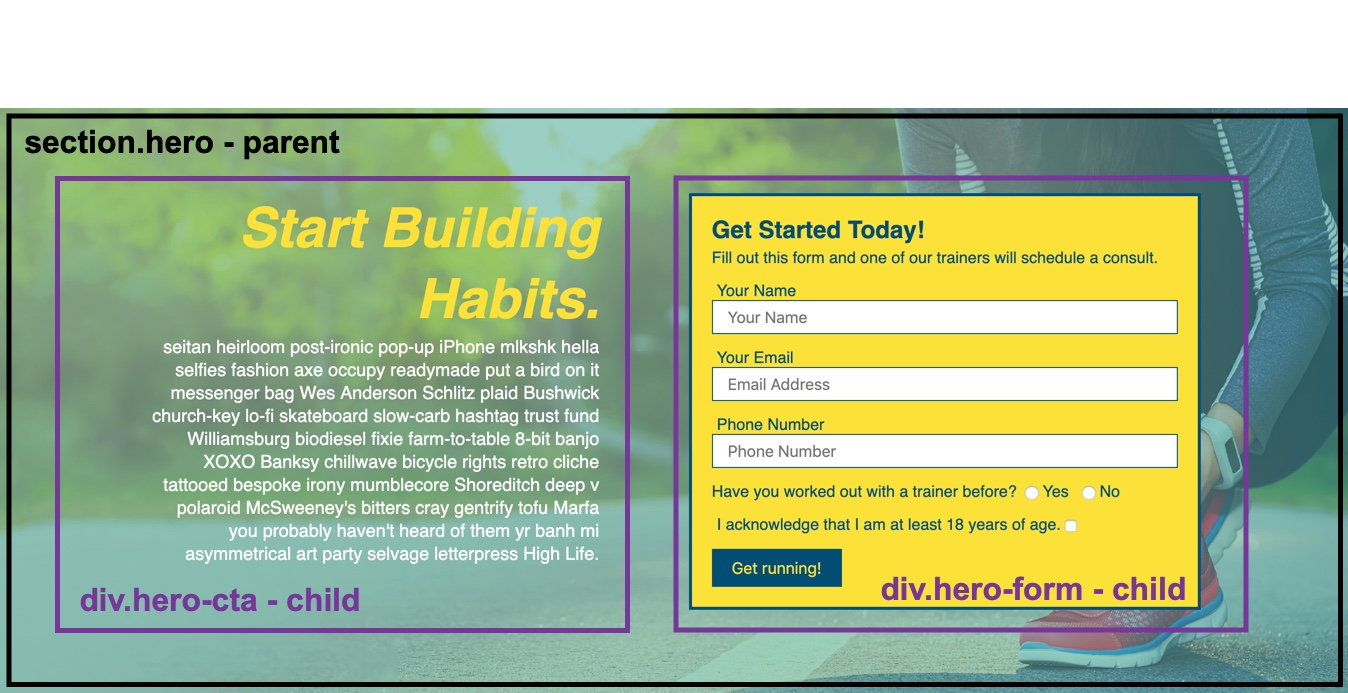
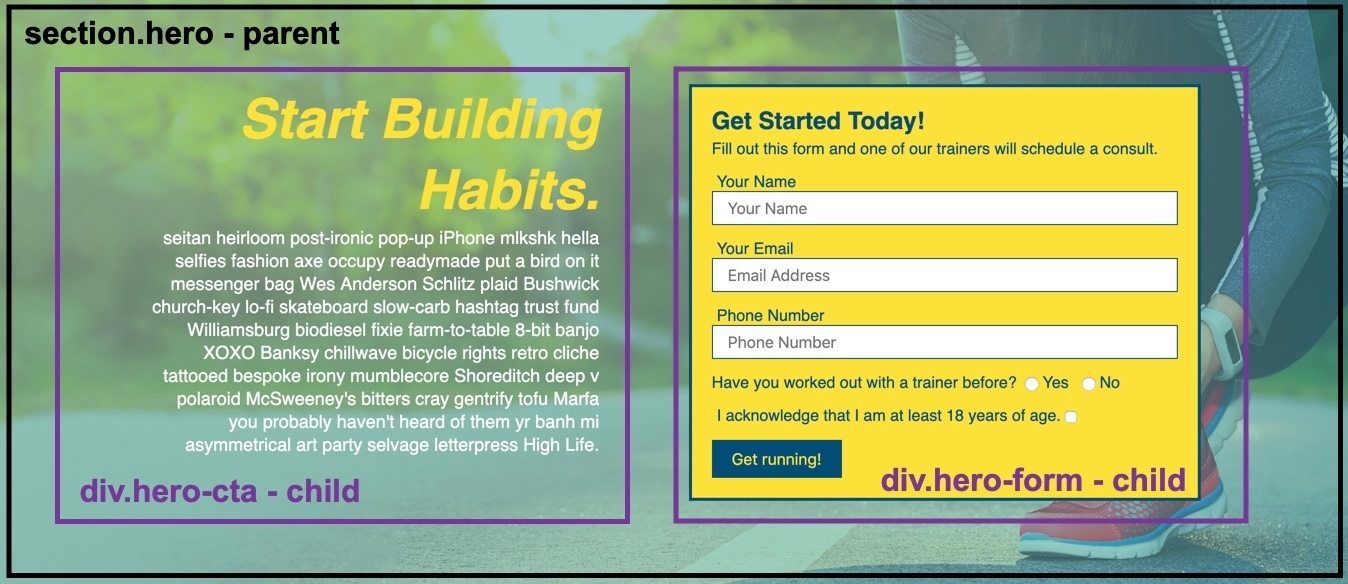
edits

diff --git a/02-css/content/lesson-2-flexbox.md b/02-css/content/lesson-2-flexbox.md
@@ -172,8 +172,8 @@ With these minor edits to the `<header>` we were able to achieve the same layout
 If you are guessing that those changes will involve converting the `<nav>` element to a flexbox as well, then you'd be correct, so let's keep moving!
 
 > **Important:** Don't forget to use your git commands to `add` and `commit`, and `push` your work to this `feature/flexbox` feature branch!
-
-> **Hint:** If you forget which branch you're in, type `git branch` in the command line!
+>
+> Hint: If you forget which branch you're in, type `git branch` in the command line!
 
 ## Flexing the Navigation
 
@@ -295,7 +295,7 @@ Thinking about it in terms of a flexbox layout, we would have a "row" with two "
 
 When building layouts using HTML and CSS, it is important to understand what the content of the layout is going to be, but it is a more important skill to understand how to take the mock-up of the layout and understand how all of this content can be placed in containers and laid out to match it.
 
-In the outlined mock-up above, we can see a rough example of how the hero section of our site can be laid out on the overall page. We don't even need to worry about what is happening in each of those boxes with white outlines, all we need to do is worry about the boxes themselves. Think of it as us creating a game plan for what we want to do before we do it so we can visualize our problem and stay on track.
+In the outlined mock-up above, we can see a rough example of how the hero section of our site can be laid out on the overall page. We don't even need to worry about what is happening in each of those boxes with purple outlines, all we need to do is worry about the boxes themselves. Think of it as us creating a game plan for what we want to do before we do it so we can visualize our problem and stay on track.
 
 > **Urkel Says:** The practice of sketching the outline of a page's layout is called "wireframing" and it is used throughout all of web development.
 
@@ -350,11 +350,11 @@ Next we want to adjust our `.hero-form` CSS rule to have these two declarations:
 
 - `margin: 3.5%;`
 
-Notice how we used percentage values for the margins and widths this time around? Since margins and padding are usually done in very small amounts like 10 pixels, it's usually okay to not make their lengths relative to the size of the parent container or page. We used it here in this case more just to show how it can work in the overall flow of this section. You'll find throughout your career that picking values for most sizing and spacing properties is going to involve a good amount of trial and error, this is why we use Chrome DevTools to adjust values until we think they will work!
+Notice how we used percentage values for the margins and widths this time around? Since margins and padding are usually done in very small amounts like 10 pixels, it's usually okay to not make their lengths relative to the size of the parent container or page. We used it here in this case more just to show how it can work in the overall flow of this section.
 
 > **Pro Tip:** Picking a unit of measurement to use in CSS can sometimes be a daunting task that causes us to constantly second guess our choice. All of these units of measurement exist for a reason and while some may work better than others in certain cases, there really is no such thing as a "wrong" decision, as we can achieve similar&mdash;if not the same&mdash;results with any mix of these units.
 >
-> This is why it is important to experiment with these different units of measurement and see what pattern works for you. A lot of developers will have an opinion on what they think is superior, but the most important opinion is your own since you are the one building the page. Over time these decisions will become much easier to make, but only if you practice!
+> This is why it is important to experiment with these different units of measurement and see what pattern works for you using tools like Chrome DevTools. A lot of developers will have an opinion on what they think is superior, but the most important opinion is your own since you are the one building the page. Over time these decisions will become much easier to make, but only if you practice!
 
 The hero isn't 100% mobile-ready just yet as it doesn't break down onto the next line as nicely as our other flexboxes have done so far, but this isn't a problem. We'll tackle that in a future lesson when we handle all of our mobile styles at once.
 
@@ -620,7 +620,7 @@ One last thing we need to do is tell the `<img>` element to limit its width to b
 }
 ```
 
-Again, we just fixed a problem that probably did not occur on any of our machines if we are using Google Chrome, but it is a good practice to stay ahead of any browser quirks. You never know where the site's user is from or how Internet-savvy they are, so it is part of our job to never let them come across any issues like that just because they are on an older browser.
+Again, we just fixed a problem that probably did not occur on any of our machines if we are using Google Chrome, but it is a good practice to stay ahead of any browser quirks. You never know where the site's user is from or how Internet-savvy they are, so it is part of our job to never let them come across any issues like that just because they are on a different browser than you.
 
 The layout for each step should be in pretty good shape now, let's finish up with something easier and apply styles to our step's text content. We can start by updating our `.step p` CSS rule:
 
@@ -781,40 +781,40 @@ Once that's set up in this order, wrap the three elements with a `<div>` that ha
 
 ```html
 <div class="contact-info">
-<div>
-  <h3>Run Buddy</h3>
-  <p>
-    Any questions or concerns before signing up?
-    <br />
-    Let us know and we'll be happy to talk to you!
-  </p>
+  <div>
+    <h3>Run Buddy</h3>
+    <p>
+      Any questions or concerns before signing up?
+      <br />
+      Let us know and we'll be happy to talk to you!
+    </p>
 
-  <address>
-    55 Main Street <br />
-    Some Town, Ca <br />
-    12345 <br />
-    P: <a href="tel:555.786.2839">555.RUN.BUDZ (555.786.2839)</a><br />
-    E: <a href="mailto://info@runbuddy.io">info@runbuddy.io</a>
-  </address>
+    <address>
+      55 Main Street <br />
+      Some Town, Ca <br />
+      12345 <br />
+      P: <a href="tel:555.786.2839">555.RUN.BUDZ (555.786.2839)</a><br />
+      E: <a href="mailto://info@runbuddy.io">info@runbuddy.io</a>
+    </address>
 
-</div>
+  </div>
 
-<div class="contact-form">
-  <h3>Contact Us</h3>
-  <form>
-    <label for="contact-name">Your Name</label>
-    <input type="text" id="contact-name" placeholder="Your Name" />
+  <div class="contact-form">
+    <h3>Contact Us</h3>
+    <form>
+      <label for="contact-name">Your Name</label>
+      <input type="text" id="contact-name" placeholder="Your Name" />
 
-    <label for="contact-message">Message</label>
-    <textarea id="contact-message" placeholder="Message"></textarea>
+      <label for="contact-message">Message</label>
+      <textarea id="contact-message" placeholder="Message"></textarea>
 
-    <button type="submit">Submit</button>
-  </form>
-</div>
+      <button type="submit">Submit</button>
+    </form>
+  </div>
 
-<iframe
-  src="https://www.google.com/maps/embed?pb=!1m14!1m12!1m3!1d12182.30520634488!2d-74.0652613!3d40.2407219!2m3!1f0!2f0!3f0!3m2!1i1024!2i768!4f13.1!5e0!3m2!1sen!2sus!4v1561060983193!5m2!1sen!2sus"
-  frameborder="0" style="border:0" allowfullscreen></iframe>
+  <iframe
+    src="https://www.google.com/maps/embed?pb=!1m14!1m12!1m3!1d12182.30520634488!2d-74.0652613!3d40.2407219!2m3!1f0!2f0!3f0!3m2!1i1024!2i768!4f13.1!5e0!3m2!1sen!2sus!4v1561060983193!5m2!1sen!2sus"
+    frameborder="0" style="border:0" allowfullscreen></iframe>
 
 </div>
 ```
@@ -837,16 +837,6 @@ Now that we've stripped some breaking style declarations, we can add our flexbox
 
 - `flex-wrap: wrap;`
 
-It should now look like this:
-
-```css
-.contact-info {
-  display: flex;
-  justify-content: space-between;
-  flex-wrap: wrap;
-}
-```
-
 Last thing we need to do for the flexbox layout is have all three child elements share the space as equally as possible. If you recall, we did that just a little while ago in the trainer section by giving them all a `flex: 1` style declaration. Now our three elements don't all share a common element name or even class, so how do we select all three of them at once to make this easier?
 
 Well we could go back to the HTML and give them all a class, or we could skip that and select all of them with a familiar selector used in a different context:
@@ -858,9 +848,9 @@ Well we could go back to the HTML and give them all a class, or we could skip th
 }
 ```
 
-Do you remember what the `*` selector did? What about the `>` syntax?
+Do you remember what the `*` selector did? Also, what's with this new `>` syntax?
 
-> **Hint:** We're still using it at the very top of the `style.css` file
+> **Hint:** We're still using `*` at the very top of the `style.css` file
 
 That is the symbol we use to select all HTML elements, so how is it being used in this context? This is saying "select all elements that are direct children of anything with a class of `contact-info`." The `>` symbol means it is looking specifically for direct children of the element listed first, in this case it is selecting all children of the element with `contact-info` as its class.
 
